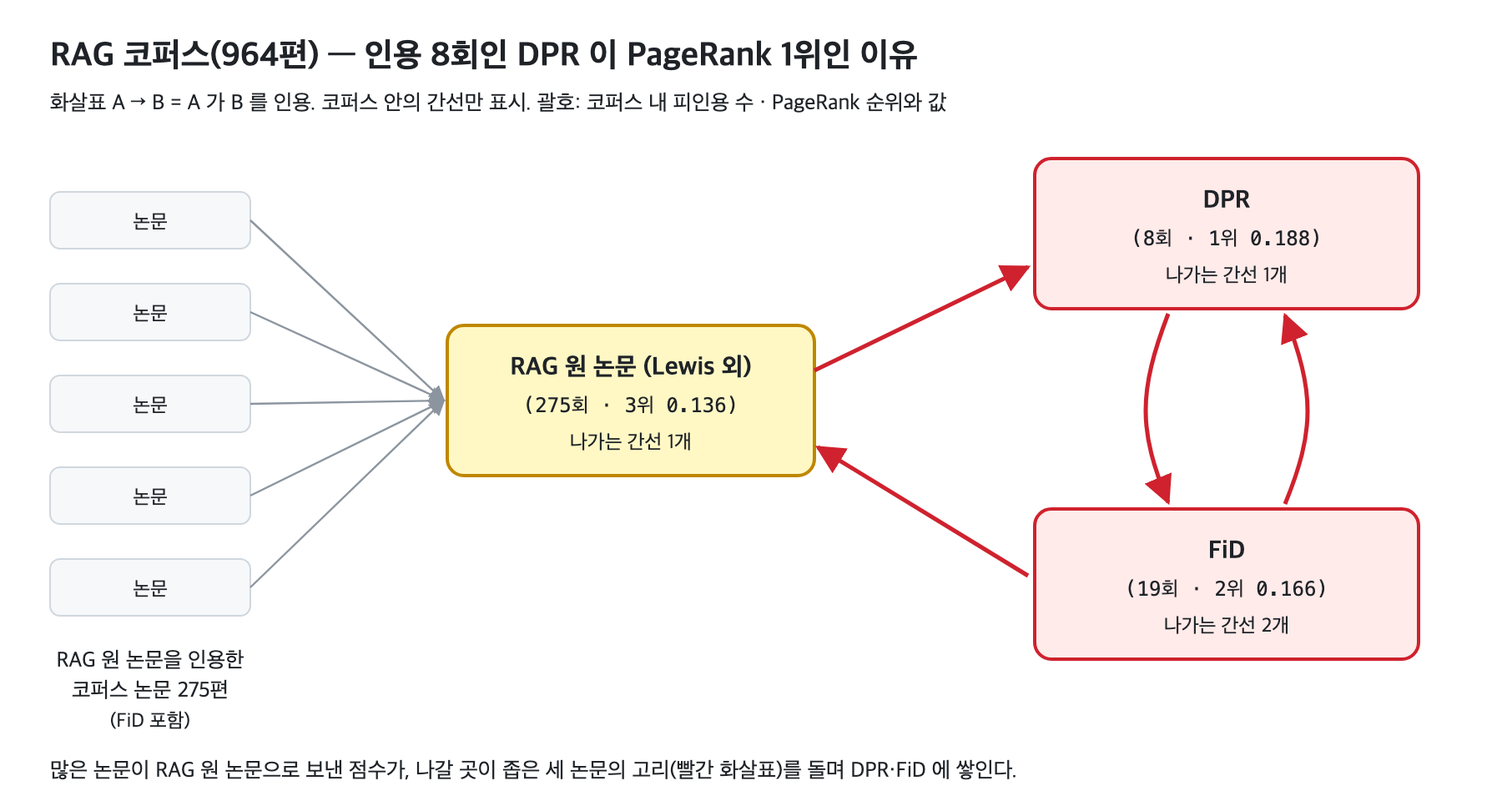
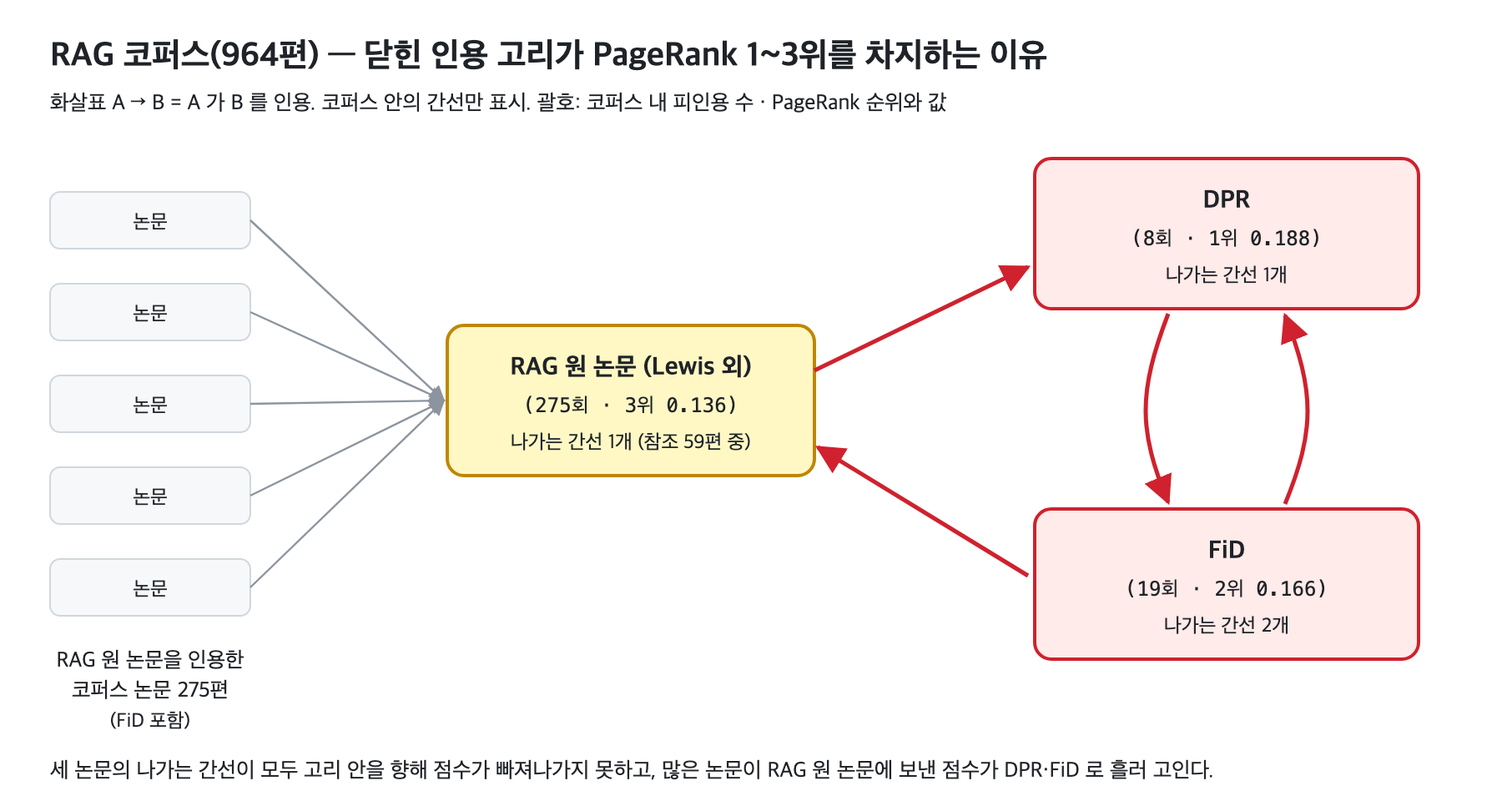
docs: 결과 해석 바로잡기 — 토픽 자리 포화, verify 기준선, 닫힌 인용 고리, 코퍼스 정의와 한계 보강

Changed region(s): [[0.2489, 0.0312, 0.7156, 0.0938], [0.0311, 0.9375, 0.8089, 0.9688], [0.3422, 0.5312, 0.4978, 0.5625]]

diff --git a/README.md b/README.md
@@ -6,10 +6,26 @@
 "각자는 자주 등장하는데 기대보다 함께 등장하지 않는 개념 쌍"을 찾는 Rust CLI 입니다.
 "함께 연구되지 않았다"를 판정하지는 않습니다. 판단 기준은 아래 `gaps` 설명에 있습니다.
 
+이 접근은 문헌 기반 발견(literature-based discovery)의 Swanson ABC 모델과 가깝습니다.
+ABC 모델은 A–B 와 B–C 는 각각 다뤄졌는데 A–C 는 함께 다뤄지지 않은 조합에서, 매개 개념 B 를 거쳐 A–C 관계의 가설을 세웁니다.
+이 도구는 그중 **A–C 가 기대보다 함께 나오지 않는 후보**만 찾고, 매개 개념 B 는 제안하지 않습니다.
+
 - tokio 기반 순차 수집 (레이트리밋·재시도·페이지 단위 디스크 캐시, 끊겨도 이어받기, 일일 과금 한도 감시)
 - PageRank 직접 구현, 동시출현 기대값 대비 lift 로 공백 후보 점수화, 제목·초록 텍스트로 후보 검증
 - 출력 행 타입에 `#[derive(Report)]` 프로시저 매크로를 붙여 표·JSON·CSV 를 한 번에 지원
 - 멀티스테이지 Docker 이미지 (비루트 실행)
+
+## 핵심 결과
+
+아래 "실제 실행 결과" 에서 두 분야 코퍼스로 확인한 내용입니다.
+
+- **리튬 topics 공백 후보 상위는 토픽 배정 방식의 산물입니다.** 상위 10쌍 중 7쌍에 나오는 `Advanced Battery Technologies Research` 2,421편 중
+  2,272편은 뜻이 거의 같은 배터리 토픽 둘도 함께 달고 있어, 논문당 3개인 토픽 자리가 배터리 토픽으로 찹니다. 연구 공백도, 코퍼스 오염도 아닙니다.
+- **태그 공존 0 은 과장된 신호지만 근거가 없지는 않습니다.** 리튬 concepts 후보 전체에서 태그 lift 와 제목·초록 `text_lift` 의 순위상관은 0.64 이고,
+  태그 공존 0 인 쌍은 텍스트에서도 기대보다 덜 함께 나옵니다(`text_lift` 중앙값 0.63). 반면 `co_mentioned`(텍스트 공존 1편 이상)는 태그 lift 와 무관하게 96% 이상이라 판별력이 없습니다.
+- **RAG 인용 PageRank 1~3위는 닫힌 인용 고리입니다.** RAG 원 논문 → DPR → FiD → {DPR, RAG 원 논문} 세 편의 나가는 간선이 모두 고리 안을 향해 전체 점수의 약 49% 가 모입니다.
+  OpenAlex 메타데이터 문제도 겹칩니다: RAG 원 논문 기록의 제목이 틀렸고, 964편 중 299편(31%)은 참조 목록이 비어 있습니다.
+- **분류 체계 품질은 분야마다 다릅니다.** concepts 는 리튬에서는 텍스트 검증에 쓸 만했지만, RAG 에서는 상위 10개 중 8개가 동음이의어 오분류였습니다.
 
 ## 파이프라인
 
@@ -68,6 +84,8 @@ docker run --rm -v "$PWD/data:/app/data" netsci fetch --query '"lithium metal an
 docker run --rm -v "$PWD/data:/app/data" netsci gaps --data data/li-anode --top 20
 ```
 
+API 키를 쓰려면 `docker run` 에 `-e OPENALEX_API_KEY` 를 더해 호스트 환경변수를 컨테이너로 넘깁니다(선택).
+
 위 명령은 macOS·Windows 의 Docker Desktop 기준입니다. 컨테이너는 비루트(uid 10001)로 실행되는데,
 **Linux** 에서는 바인드 마운트한 `data/` 가 호스트 사용자(또는 없을 때 자동 생성되면 root) 소유라
 그대로 실행하면 `data/li-anode/raw: 입출력 실패 … Permission denied` 로 실패합니다.
@@ -90,7 +108,12 @@ docker run --rm --user "$(id -u):$(id -g)" -v "$PWD/data:/app/data" netsci gaps 
 
 **검색어는 따옴표로 묶었습니다.** OpenAlex 전문 검색은 따옴표가 없으면 단어가 흩어져 나오는 논문도 포함합니다.
 같은 조건에서 `lithium metal anode` 는 26,685편, `"lithium metal anode"` 는 4,438편이었고,
-따옴표 없는 코퍼스에는 광촉매·가스 센서·아연 전지 논문이 섞여 `gaps` 상위를 다른 분야 조합이 채웠습니다.
+따옴표 없는 코퍼스에는 `Advanced Photocatalysis Techniques`(광촉매) 토픽 논문 1,296편, `Gas Sensing Nanomaterials and Sensors`(가스 센서) 488편이 들어 있었습니다.
+
+**코퍼스 정의 — 검색은 제목·초록이 아니라 전문(full text)을 봅니다.** 캐시한 응답의 `meta.x_query` 에도 질의가
+`full text has (stemmed "lithium metal anode")` 로 기록돼 있습니다. 그래서 제목·초록에 검색 구가 그대로 나오는 논문은 일부입니다:
+리튬 4,438편 중 862편(`lithium metal anode` 단어 경계 일치, 복수형 `anodes` 까지 치면 1,547편), RAG 964편 중 252편(`retrieval-augmented generation`, 하이픈·공백 표기 모두).
+아래 RAG PageRank 1·2위인 DPR·FiD 도 제목에 이 구가 없습니다. `verify` 는 제목·초록만 읽으므로, 검색으로 코퍼스에 들어온 모집단과 텍스트 검증이 보는 범위가 다릅니다.
 
 ### 분야 1 (자연과학): `"lithium metal anode"` — 4,438편
 
@@ -130,8 +153,12 @@ rank  id           title                                                        
 10    W2907588123  High electronic conductivity as the origin of lithium dendr…  2019  0.005883  188                  1714
 ```
 
-2018년 논문이 상위를 차지합니다. 기간을 자른 코퍼스에서는 먼저 나온 논문이 나중 논문에게 인용될 기회가 많아
-PageRank 가 오래된 쪽으로 기웁니다. 위 표에서 `in_corpus_citations` 가 가장 많은 논문(4위, 455회)이 1위가 아닌 이유는
+2018년 논문이 상위를 차지합니다. 코퍼스에서 2018년 논문은 362편(8.2%)인데 PageRank 상위 100편 중 73편이 2018년입니다.
+출판 연도 앞쪽을 자른 코퍼스(left truncation)에서 두 효과가 겹칩니다.
+먼저 나온 논문은 나중 논문에게 인용될 기회가 많습니다(내부 피인용 57회 이상인 98편 중 48편이 2018년).
+그리고 첫해 논문은 대부분 2018년 이전 논문을 인용해 코퍼스 안으로 나가는 간선이 거의 없습니다. 2018년 논문 362편 중 226편은
+나가는 내부 간선이 0 인 dangling 노드라(작품당 평균 0.83개, 2024년은 11.34개), 전체 인용망이었다면 더 앞선 논문으로 흘러갔을 점수가 2018년 논문에서 멈춥니다.
+위 표에서 `in_corpus_citations` 가 가장 많은 논문(4위, 455회)이 1위가 아닌 이유는
 PageRank 가 "많이 인용된 논문에게 인용된 정도"를 보기 때문입니다.
 
 #### `concepts --top 10` (topics)
@@ -169,9 +196,13 @@ rank  concept_a                                    concept_b                    
 10    Advanced Battery Technologies Research       Chemical Synthesis and Characterization               2421     33       0         18.00     0.000
 ```
 
-따옴표로 코퍼스를 좁혀도 **상위 10쌍 중 9쌍이 "배터리 핵심 토픽 × 다른 토픽"** 입니다. 다른 분야 토픽의 논문 수는 크게 줄었지만(따옴표 없을 때 광촉매 1,296편 → 39편) 구조는 같습니다.
-토픽은 논문당 최대 3개이고(4,438편 중 4,413편이 정확히 3개), 주변 분야 논문은 세 자리를 자기 분야 토픽으로 채우므로 배터리 핵심 토픽과 함께 붙을 자리가 없습니다.
-**topics 기준 공백 후보는 연구 공백보다 코퍼스 구성을 보여 줍니다.**
+따옴표로 코퍼스를 좁혀도 **상위 10쌍 중 9쌍이 "배터리 토픽 × 다른 토픽"** 이고(광촉매 토픽은 따옴표 없을 때 1,296편 → 39편), 그중 7쌍이 `Advanced Battery Technologies Research`(`T10663`)를 포함합니다.
+원인은 뜻이 거의 같은 배터리 토픽들이 논문당 최대 3개(4,438편 중 4,413편이 정확히 3개)인 토픽 자리를 함께 차지하는 데 있습니다(score ≥ 0.4 기준):
+- `T10663` 이 붙은 2,421편 중 2,360편에 `Advancements in Battery Materials`(`T10018`), 2,307편에 `Advanced Battery Materials and Technologies`(`T10281`)가 함께 붙고, 2,272편은 둘 다 붙어 세 자리가 모두 배터리 토픽입니다.
+- 1위 상대인 `MXene and MAX Phase Materials` 140편은 `T10018` 과 91편, `T10281` 과 73편 함께 붙지만 `T10663` 과는 0편입니다.
+  MXene 논문에 배터리 토픽이 붙지 않는 것이 아니라, 배터리 토픽이 이미 한두 자리를 차지해 비슷한 세 번째 배터리 토픽이 들어갈 자리가 없는 것입니다.
+
+**topics 기준 공존 0 은 연구 공백도 코퍼스 오염도 아니고, 비슷한 토픽이 자리를 나눠 갖는 토픽 배정 방식의 산물입니다.**
 
 `expected` 는 두 레이블이 독립이라고 가정했을 때의 기대 동시출현 수(`works_a × works_b / N`)이고,
 `lift = observed / expected` 가 낮을수록 "기대보다 덜 함께 나온" 쌍입니다.
@@ -218,11 +249,31 @@ rank  concept_a                       concept_b             expected  tag_observ
 ```
 
 - 태그 기준으로는 20쌍 모두 공존 0 이지만, 텍스트 기준으로는 **`co_mentioned` 13쌍 · `unverifiable` 7쌍 · `absent_in_text` 0쌍**입니다.
-  태그 공존 0 을 "공백" 으로 읽으면 안 된다는 것을 모든 후보에 대해 수치로 보여 줍니다.
+  다만 아래 기준선에서 보듯 `co_mentioned` 는 태그 공존이 많은 쌍에서도 거의 항상 나오므로, 이 13쌍만으로 태그 공백이 틀렸다고 할 수는 없습니다.
 - 19위 `Solid-state × Stripping (fiber)` 는 태그로는 한 번도 함께 붙지 않았지만 초록에서는 90편이 함께 언급합니다(`text_lift` 0.817).
   `Stripping (fiber)` 는 리튬 도금·박리(plating/stripping)의 오분류이고, 괄호 한정어를 떼면 본래 뜻의 `stripping` 으로 검색됩니다.
 - `unverifiable` 7쌍 중 1·10위는 `Faraday efficiency` 입니다. 이름 그대로는 초록에 1편만 나옵니다. 배터리 논문은 같은 지표를 주로
   Coulombic efficiency 라고 써서, `--alias "Faraday efficiency=Coulombic efficiency"` 로 표현을 더해야 검증할 수 있습니다.
+
+**기준선 — 태그 공존이 있는 쌍과 비교**
+
+위 20쌍만으로는 비교 대상이 없어, `expected ≥ 3` 인 후보 쌍 전체(태그 공존이 있는 쌍 포함, 3,886쌍)를 같은 방식으로 검증했습니다:
+```
+netsci verify --taxonomy concepts --top 100000 --format csv --data data/li-anode-phrase
+```
+태그 lift = `tag_observed / expected`. `co_mentioned` 비율과 `text_lift` 는 판정 가능한(`unverifiable` 이 아닌) 쌍 기준입니다.
+
+| 태그 lift | 쌍 | 판정 가능 | `co_mentioned` 비율 | `text_lift` 중앙값 | `text_lift` < 1 비율 |
+|---|---|---|---|---|---|
+| 0 | 321 | 215 | 96.3% | 0.63 | 82.8% |
+| (0, 0.5) | 855 | 636 | 98.6% | 0.79 | 75.6% |
+| [0.5, 1) | 1,154 | 850 | 99.6% | 0.96 | 56.4% |
+| [1, 2) | 1,208 | 843 | 100% | 1.18 | 20.9% |
+| ≥ 2 | 348 | 222 | 100% | 1.86 | 5.0% |
+
+- `co_mentioned` 는 모든 구간에서 96% 이상이라 **그것만으로는 공백 여부를 가르지 못합니다.** 한 분야로 모은 코퍼스에서 흔한 두 표현은 거의 어디선가 함께 나옵니다.
+- 대신 `text_lift` 는 태그 lift 를 따라갑니다(판정 가능한 2,766쌍에서 스피어만 순위상관 0.64). 태그 공존 0 인 쌍은 텍스트에서도 기대보다 덜 함께 나오므로,
+  태그 공백은 실제로 덜 함께 언급되는 경향을 일부 반영합니다. 다만 텍스트 공존이 0 인 쌍(`absent_in_text`)은 태그 공존 0 인 321쌍 중 8쌍뿐이라, "공존 0" 이라는 숫자는 차이를 과장한 신호입니다.
 
 ### 분야 2 (소프트웨어): `"retrieval-augmented generation"` — 964편
 
@@ -243,8 +294,11 @@ works  year_min  year_max  internal_edges  total_references  internal_ratio  top
 964    2019      2024      1505            35534             0.0424          334     964       918
 ```
 
-내부 인용 비율이 4.24% 로 리튬(9.67%)보다 낮습니다. 964편 중 808편(84%)이 2023~2024년에 나와,
-코퍼스 안에서 서로 인용할 시간이 짧았던 것이 한 원인으로 보입니다.
+`concepts` 가 964 로 작품 수와 같은 것은 우연입니다(필터를 거친 고유 concept id 가 964개).
+
+내부 인용 비율이 4.24% 로 리튬(9.67%)보다 낮습니다. 비율이 낮은 원인은 따로 확인하지 않았지만, 그래프가 성긴 데에는 메타데이터도 작용합니다.
+964편 중 299편(31%, 2024년 논문은 633편 중 179편)은 OpenAlex 기록의 `referenced_works` 가 비어 있어 나가는 간선이 하나도 없습니다(리튬은 4,438편 중 13편).
+참조가 빈 작품은 비율의 분자·분모 모두에서 빠지므로, 비율보다는 간선 수 자체를 줄입니다.
 
 #### `citations --top 10`
 ```
@@ -266,12 +320,17 @@ rank  id           title                                                        
 실제 논문은 RAG 라는 이름을 처음 쓴 **"Retrieval-Augmented Generation for Knowledge-Intensive NLP Tasks"** 입니다.
 출력의 `title` 은 OpenAlex 기록을 그대로 옮기므로 순위표만 보고 논문을 판단하면 안 됩니다.
 
-![RAG 코퍼스 인용 순환 — DPR 이 PageRank 1위인 이유](docs/images/rag-pagerank-cycle.svg)
+![RAG 코퍼스 인용 고리 — DPR·FiD·RAG 원 논문이 PageRank 1~3위인 이유](docs/images/rag-pagerank-cycle.svg)
 
-**1위 DPR 은 코퍼스 안에서 8번밖에 인용되지 않았는데 PageRank 1위입니다.** 코퍼스 안의 인용 관계를 따라가 보면
-RAG 원 논문(275회 인용)이 코퍼스 안에서 인용하는 논문은 DPR 하나뿐이고, DPR 은 2위 FiD 하나만, FiD 는 DPR 과 RAG 원 논문만 인용합니다.
-세 논문이 순환을 이루어, 수많은 논문이 RAG 원 논문으로 흘려보낸 점수가 이 고리를 돌며 DPR·FiD 에 쌓입니다.
-감쇠계수(d = 0.85)가 매 단계 15% 를 전체에 나누지만, 나가는 간선이 한두 개뿐인 작은 순환은 점수를 오래 붙잡습니다.
+**1~3위 세 논문은 코퍼스 안에서 닫힌 인용 고리를 이룹니다.** RAG 원 논문은 DPR 을, DPR 은 FiD 를, FiD 는 DPR 과 RAG 원 논문을 인용하고,
+세 논문의 코퍼스 내 나가는 간선 4개가 모두 고리 안을 향합니다. 고리에 들어온 점수는 감쇠(d = 0.85)로 매 단계 15% 가 전체에 흩어지는 것 말고는
+빠져나갈 길이 없어, 세 논문의 PageRank 합이 0.187659 + 0.165572 + 0.136340 ≈ 0.490, 전체의 약 49% 입니다.
+
+점수가 들어오는 입구는 RAG 원 논문입니다. 코퍼스 논문 275편이 이 논문을 인용하는데, 이 논문의 참조 59편 중 코퍼스 안에 있는 것은 DPR 하나뿐입니다.
+PageRank 는 나가는 점수를 **코퍼스 안 간선 수**로만 나누므로 코퍼스 밖 참조 58편은 무시되고, RAG 원 논문이 넘기는 점수가 전부 DPR 로 갑니다.
+
+DPR 의 코퍼스 내 피인용이 8회뿐인 것을 영향력이 작다는 뜻으로 읽으면 안 됩니다. DPR 은 널리 인용되는 논문인데 이 OpenAlex 기록의
+`cited_by_count` 자체가 142 라, 인용 연결이 이 기록에 제대로 모이지 않은 것으로 보입니다(OpenAlex 연결·수집 범위 문제).
 
 #### `concepts --top 10` (topics)
 ```
@@ -344,22 +403,30 @@ rank  concept                         level  works  strength  top_neighbor
 
 - **인용 그래프가 성깁니다.** 수집한 논문끼리의 인용만 간선이 되므로, 리튬 금속 음극 코퍼스에서 참조 365,042건 중
   코퍼스 안을 가리키는 것은 35,299건(**9.67%**), RAG 코퍼스는 **4.24%** 뿐입니다. PageRank 는 이 부분 그래프 안에서의 순위이고,
-  RAG 코퍼스의 DPR 처럼 나가는 간선이 적은 작은 순환이 점수를 붙잡아 인용 수와 동떨어진 순위가 나올 수 있습니다.
-- **코퍼스 경계가 결과를 좌우합니다.** 검색어를 따옴표로 묶지 않으면 리튬 코퍼스가 26,685편으로 커지며 다른 분야 논문이 섞였습니다.
+  RAG 코퍼스처럼 나가는 간선이 모두 안쪽을 향하는 닫힌 고리가 점수를 붙잡아 인용 수와 동떨어진 순위가 나올 수 있습니다.
+- **PageRank 는 코퍼스 안 나가는 간선 수로만 점수를 나눕니다.** 참조 대부분이 코퍼스 밖인 논문은 받은 점수를 안쪽 몇 안 되는 논문에 모두 넘깁니다
+  (RAG 원 논문은 참조 59편 중 코퍼스 안이 DPR 하나라 넘기는 점수 전부가 DPR 로 갑니다). 출판 연도 앞쪽을 자른 탓에 첫해 논문은 나가는 간선이 거의 없어 상위에 몰립니다.
+- **수집 조건 `cited_by_count > 20` 은 생존 편향을 만듭니다.** 적게 인용된 초기 논문, 특히 다른 분야에서 먼저 시도한 논문이 빠지고,
+  인용이 쌓일 시간이 짧은 최근 연도 논문은 덜 들어옵니다.
+- **코퍼스 경계가 결과를 좌우합니다.** 검색어를 따옴표로 묶지 않으면 리튬 코퍼스가 26,685편으로 커지며 광촉매·가스 센서 토픽 논문이 섞였습니다.
+  OpenAlex 검색은 전문을 보므로 제목·초록에 검색 구가 나오는 논문은 리튬 862편, RAG 252편뿐이고, 제목·초록만 읽는 `verify` 와 모집단이 다릅니다.
   수집을 늘린다고 그래프가 촘촘해지지도 않았습니다(따옴표 없는 코퍼스의 내부 인용 비율은 16,200편 시점 11.63% → 전량 8.22%).
 - **OpenAlex concepts 분류에는 동음이의어 오분류가 섞여 있습니다.** 그래프 명령(`concepts`·`gaps`)의 기본 분류를 topics 로 둔 이유입니다.
   리튬 코퍼스에서 필터(level ≥ 2, score ≥ 0.4)를 거친 뒤에도 4,438편 중 2,967편에 `Lithium (medication)`(리튬 약물),
   519편에 `Dendrite (mathematics)` 가 붙어 있고, RAG 코퍼스에서는 `concepts` 상위 10개 중 8개가 오분류입니다. 필터로 줄일 뿐 제거하지 못합니다.
-- **topics 는 오분류가 적지만 한 분야로 모은 코퍼스의 공백 후보로는 약할 수 있습니다.** 토픽은 논문당 최대 3개라,
-  리튬 코퍼스에서는 "핵심 토픽 × 주변 분야 토픽" 쌍이 `gaps` 상위를 채웠습니다. RAG 코퍼스에서는 해석할 수 있는 조합이 나왔습니다.
-- **OpenAlex 메타데이터 자체가 틀린 경우가 있습니다.** RAG 코퍼스의 PageRank 3위 기록은 DOI·저자로 보면 RAG 원 논문
-  (Lewis 외, arXiv 2005.11401)인데 제목이 전혀 다른 문자열로 들어가 있습니다. 이전에 받은 large language model 코퍼스에서도
-  Chain-of-Thought 논문(arXiv 2201.11903)이 같은 식으로 틀려 있었습니다. 둘 다 arXiv DOI(`10.48550`) 기록입니다.
+- **topics 는 오분류가 적지만 `expected` 의 독립 가정을 구조적으로 어깁니다.** 토픽은 논문당 최대 3개이고 뜻이 거의 같은 토픽이 여러 개라,
+  비슷한 토픽끼리 자리를 나눠 가지면 독립 가정의 기대값이 과대 추정되고 공존 0 이 쉽게 생깁니다(리튬 코퍼스의 `gaps` 상위). RAG 코퍼스에서는 해석할 수 있는 조합이 나왔습니다.
+- **독립 가정은 concepts 에서도 맞지 않습니다.** 공존 수가 기대값 λ 의 포아송 분포를 따른다면 우연히 공존 0 인 쌍의 기대 개수는 후보 쌍의 e^(−λ) 합인데,
+  리튬 concepts 후보 3,886쌍에서 이 값은 약 29.5쌍이고 실제 공존 0 은 321쌍입니다(topics 후보 150쌍에서는 약 0.7쌍 대 38쌍). 그래서 `lift` 는 순위 기준으로만 씁니다.
+- **OpenAlex 메타데이터 자체가 틀리거나 빠진 경우가 있습니다.** RAG 코퍼스의 PageRank 3위 기록은 DOI·저자로 보면 RAG 원 논문
+  (Lewis 외, arXiv 2005.11401)인데 제목이 전혀 다른 문자열로 들어가 있습니다. RAG 코퍼스 964편 중 299편(31%)은 `referenced_works` 가 비어 있고,
+  널리 인용되는 DPR 의 기록은 `cited_by_count` 가 142 입니다.
 - **전송 오류는 재시도하지 않습니다.** 429·5xx 는 재시도하지만, 연결 끊김·응답 본문 읽기 타임아웃은 바로 에러로 끝납니다
-  (위 리튬 수집에서 실제로 발생). 받은 페이지는 캐시에 남으므로 같은 명령을 다시 실행하면 이어받습니다.
-- **`lift` 가 낮다고 연구 가치가 있다는 뜻은 아닙니다 — 단지 후보일 뿐입니다.** 위 리튬 `verify` 에서 태그 공존 0 인 20쌍 중 13쌍이
-  제목·초록에는 함께 나왔습니다. 태그 기준 공존 0 은 "함께 다뤄지지 않았다" 가 아니라
-  "함께 태깅되지 않았다" 일 뿐이라, `verify` 로 제목·초록과 대조하고 `evidence` 로 원문 표본을 읽어 확인해야 합니다.
+  (위 리튬 수집에서 실제로 발생). 받은 페이지는 캐시에 남아 같은 명령을 다시 실행하면 이어받아 복구되므로, 재시도는 넣지 않고 보류했습니다.
+- **`lift` 가 낮다고 연구 가치가 있다는 뜻은 아닙니다 — 단지 후보일 뿐입니다.** 태그 기준 공존 0 은 "함께 다뤄지지 않았다" 가 아니라
+  "함께 태깅되지 않았다" 는 뜻입니다. 위 기준선에서 태그 공존 0 인 쌍은 텍스트에서도 덜 함께 나오는 경향이 있지만(`text_lift` 중앙값 0.63) 0 이라는 숫자만큼 극단적이지는 않으므로,
+  `verify` 로 제목·초록과 대조하고 `evidence` 로 원문 표본을 읽어 확인해야 합니다.
+- **시간 검증을 하지 않았습니다.** 문헌 기반 발견에서는 과거 시점의 후보가 이후 실제로 함께 연구됐는지로 방법을 평가하지만, 여기서 나온 후보가 나중에 공존하게 됐는지는 확인하지 않았습니다.
 - **`verify`·`evidence` 는 기본 분류가 concepts 입니다.** 텍스트 검증은 레이블 이름을 제목·초록에서 찾는데, 토픽 이름은
   `Advanced Battery Materials and Technologies` 같은 구문이라 본문에 그대로 나오는 일이 드물어 topics 로는 대부분 `unverifiable` 이 됩니다.
   `--taxonomy topics` 를 직접 주면 경고를 내며, 이때는 `--alias` 로 표현을 더해야 합니다. 반대로 concepts 의 오분류 이름도
@@ -367,6 +434,10 @@ rank  concept                         level  works  strength  top_neighbor
   일반 단어가 되면 과잉 일치합니다(따옴표 없는 리튬 코퍼스에서 `Electrolyte × Production (economics)` 가 229편 일치).
 - **`co_mentioned` 는 "제목·초록에 함께 나온 논문이 1편 이상" 이라는 뜻일 뿐입니다.** `text_expected` 가 40 이어도 1편이면 같은 판정이므로
   `text_lift`(`text_observed / text_expected`)와 함께 읽어야 합니다. 문자열 공존은 비교·부정 문장("unlike …")도 셉니다.
+- **`unverifiable` 은 텍스트 공존이 0 이라는 뜻이 아닙니다.** `text_expected < 3` 이면 `text_observed` 가 있어도 판정하지 않습니다
+  (RAG `verify --top 20` 2위 `Health care × Language model` 은 `text_expected` 2.50 에 공존 3편, 12위 `Context (archaeology) × Health care` 는 2.67 에 2편).
+- **표현은 단어 경계로 정확히 일치할 때만 셉니다.** 복수형·어형 변화는 다른 표현이라, RAG 코퍼스(초록 있는 918편)에서 `Language model` 은
+  `language model` 로 164편이지만 `language models` 까지 치면 649편입니다. `--alias "Language model=language models"` 처럼 표현을 더해야 합니다.
 - **짧은 검색어는 과잉 일치할 수 있습니다.** 정규화 뒤 1~2글자인 표현(약어 별칭 등)은 단어 경계로만 비교하므로 뜻이 다른 같은 철자도 일치로 셉니다.
 - **유니코드 정규화(NFC)를 하지 않습니다.** 조합형과 완성형으로 쓰인 같은 글자(예: `é`)는 서로 다른 문자열로 비교됩니다.
 - **개념 표기 정규화를 하지 않습니다.** 같은 대상을 가리키는 다른 표기나 상·하위 개념을 합치지 않으므로, 한 주제가 여러 개념으로 나뉘어 세어질 수 있습니다.

diff --git a/docs/decisions.md b/docs/decisions.md
@@ -142,7 +142,7 @@
 ## 2026-09-17 공백 개념쌍 텍스트 검증(`verify`)과 초록 수집 추가 — 명세 확장
 - 선택지: 사례 몇 개로 한계만 기술 / LLM 으로 논문별 판정 / 제목·초록 텍스트 공존을 모든 후보에 대해 계산
 - 선택: 제목·초록 텍스트 공존
-- 이유: 공백 후보 상위가 태깅 누락의 부산물이라는 주장을 모든 후보에 대해 재현 가능한 수치로 보인다. 결정적이고 비용이 없으며 테스트할 수 있다. LLM 판정은 API 키·비용이 필요하고 결과가 흔들려 README 수치와 대조하기 어렵다.
+- 이유: 태그 공백이 텍스트에서도 나타나는지 모든 후보에 대해 재현 가능한 수치로 확인한다. 결정적이고 비용이 없으며 테스트할 수 있다. LLM 판정은 API 키·비용이 필요하고 결과가 흔들려 README 수치와 대조하기 어렵다.
 - 한계: 이름 일치는 개념 판정이 아니다. 괄호 한정어를 떼므로 `Lithium (medication)` 은 `lithium` 으로 검색돼 금속 리튬 언급까지 센다. 약어는 `--alias` 로만 잡는다.
 
 ## 2026-09-17 캐시 스키마 버전(`query.json` 의 `schema`)
@@ -154,6 +154,7 @@
 - 선택지: 2,000편 유지 / 리튬 금속 음극 조건 전량(26,604편) / 두 분야 모두 2만 편 이상
 - 선택: 리튬 금속 음극 전량, large language model 은 2,000편 유지
 - 이유: 2,000편은 조건에 맞는 전체의 7.5% 라 인용 그래프가 성긴 원인 일부가 수집량이었다. 전량은 134회 호출($0.134)로 키 없는 하루 한도($0.1)를 넘지만, 한도 도달 시 멈추고 다음 날 캐시에서 이어받는 기존 동작으로 해결된다. LLM 분야는 조건에 맞는 논문이 326,673편이라 키 없이 전량은 비현실적이고, 메타데이터 오류 사례를 보이는 데는 2,000편으로 충분하다.
+- (이후 아래 "두 분야를 따옴표 검색어로 다시 수집" 항목으로 대체. 아래 항목의 327,179편은 같은 날 나중에 받은 캐시의 `meta.count` 로, 조회 시점이 달라 수가 다르다)
 
 ## 2026-09-17 verify 에 텍스트 기대값과 판정 열 추가
 - 선택지: 텍스트 공존 수만 출력 / 텍스트 기대값·판정까지 출력
@@ -222,16 +223,29 @@
   - **"성긴 원인 일부가 수집량" 이라는 위 가정은 맞지 않았다.** 내부 인용 비율이 16,200편 시점 0.1163 → 전량 0.0822 로 낮아졌다. 검색 관련도가 낮은 뒤쪽 논문이 코퍼스 밖을 더 많이 인용하는 것으로 보인다(미확인 추정)
   - **topics 기준 `gaps` 상위 20쌍은 모두 "배터리 핵심 토픽 × 다른 분야 토픽"** 이다. 토픽이 논문당 최대 3개(26,379편이 정확히 3개)라 전문 검색으로 들어온 다른 분야 논문과는 구조적으로 공존할 수 없다. 기본 분류는 그대로 두고 README 한계에 기록했다
   - concepts 기준 후보 20쌍을 `verify` 하면 co_mentioned 12 · absent_in_text 4 · unverifiable 4. 괄호 한정어 제거가 `Production (economics)` → `production` 같은 일반 단어 과잉 일치를 만든다
+- (이후 아래 "두 분야를 따옴표 검색어로 다시 수집" 항목으로 대체. topics `gaps` 원인 설명은 "2026-09-17 README 결과 해석 바로잡기" 항목에서 다시 고쳤다)
 
 ## 2026-09-17 두 분야를 따옴표 검색어로 다시 수집 — 리튬 금속 음극 + RAG
 - 선택지: 리튬(따옴표 없음 26,685편) + large language model 2,000편 유지 / 두 분야 모두 따옴표 검색어로 전량 / 소프트웨어 분야를 `"large language model" agent`(4,130편)로
 - 선택: `"lithium metal anode"`(4,438편) + `"retrieval-augmented generation"`(964편), 둘 다 조건 전량. 위 "전량 수집 결과로 README 교체" 항목의 결과를 대체한다
 - 이유:
-  - 따옴표 없는 전문 검색은 단어가 흩어져 나오는 논문까지 포함해 코퍼스에 다른 분야가 섞였다(리튬 26,685 → 4,438, RAG 14,166 → 964)
+  - 따옴표 없는 전문 검색은 단어가 흩어져 나오는 논문까지 포함해 코퍼스에 다른 분야가 섞였다(리튬 26,685 → 4,438, RAG 14,166 → 964). 따옴표 없는 리튬 코퍼스에는 광촉매 토픽 1,296편·가스 센서 토픽 488편이 있었다. 이 혼입이 `gaps` 상위를 만든 원인이라는 판단은 확인하지 않았다
   - 소프트웨어 분야는 작성자가 결과를 직접 판단할 수 있어야 한다. RAG 는 실무에서 하이브리드 검색을 만들어 본 분야라 공백 후보가 말이 되는지 스스로 볼 수 있다. LLM 일반은 범위가 넓어(327,179편) 전량이 어렵고, agent 검색어는 LLM 서베이가 섞였다
 - 관찰:
-  - 따옴표로 좁혀도 리튬 topics `gaps` 상위 10쌍 중 9쌍은 "배터리 핵심 토픽 × 주변 토픽" 이다. 주변 토픽 편수만 줄었다(광촉매 1,296 → 39). 논문당 토픽 3개 제한이 원인이라 코퍼스를 좁히는 것만으로는 풀리지 않는다
+  - 따옴표로 좁혀도 리튬 topics `gaps` 상위 10쌍 중 9쌍은 "배터리 핵심 토픽 × 주변 토픽" 이다. 주변 토픽 편수만 줄었다(광촉매 1,296 → 39). 논문당 토픽 3개 제한과 뜻이 거의 같은 배터리 토픽들이 자리를 나눠 갖는 것이 원인이라 코퍼스를 좁히는 것만으로는 풀리지 않는다 (원인 설명은 아래 "README 결과 해석 바로잡기" 에서 수정)
   - RAG topics `gaps` 는 해석할 수 있는 조합(의료·교육 AI × 멀티모달 ML)이 나왔고, RAG concepts 는 상위 10개 중 8개가 오분류라 verify 가 의미 있는 판정을 못 냈다. 분류 체계 품질이 분야마다 다르다 → 기본값은 그대로 두고 README 에 분야별 관찰로 기록
-  - RAG PageRank 1위 DPR(내부 인용 8회)은 RAG 원 논문 → DPR → FiD → {DPR, RAG 원 논문} 순환 때문이다. 세 논문의 코퍼스 내 나가는 간선이 1·1·2개뿐이라 점수가 고리에 쌓인다
+  - RAG PageRank 1~3위는 RAG 원 논문 → DPR → FiD → {DPR, RAG 원 논문} 닫힌 고리다. 세 논문의 코퍼스 내 나가는 간선 4개가 모두 고리 안을 향해 점수가 빠져나가지 못하고(세 논문 합 약 0.49), 275편이 인용하는 RAG 원 논문의 코퍼스 내 참조가 DPR 하나뿐이라 넘기는 점수가 전부 DPR 로 간다
   - RAG 원 논문(arXiv 2005.11401) 기록의 제목이 틀려 있다. 앞서 본 Chain-of-Thought 기록과 같은 arXiv DOI(`10.48550`) 계열이다
-  - 리튬 수집 첫 실행이 응답 본문 읽기 타임아웃으로 끝났다. 전송 오류 미재시도(3차 리뷰에서 보류한 항목)가 실제로 발생했고, 재실행으로 캐시에서 이어받았다. 빈도가 낮고 재실행으로 복구되므로 README 한계에 기록만 한다
+  - 리튬 수집 첫 실행이 응답 본문 읽기 타임아웃으로 끝났다. 전송 오류 미재시도(3차 리뷰에서 보류한 항목)가 실제로 발생했고, 재실행으로 캐시에서 이어받았다. 재실행으로 복구되므로 보류하고 README 한계에 기록만 한다
+
+## 2026-09-17 README 결과 해석 바로잡기
+- 선택지: 기존 해석 유지 / 원자료(`works.jsonl`)와 도구 출력으로 다시 계산해 틀린 설명을 고친다
+- 선택: 다시 계산해 고친다. 숫자는 모두 도구 출력이거나 `works.jsonl` 에서 다시 센 값만 쓴다
+- 틀렸던 것과 바로잡은 내용:
+  - **리튬 topics 공존 0 의 원인**: "주변 분야 논문이 세 자리를 자기 분야 토픽으로 채운다" 가 아니었다. `Advanced Battery Technologies Research` 2,421편 중 2,272편이 뜻이 거의 같은 배터리 토픽 둘을 함께 달아 세 자리가 배터리 토픽으로 찬다. MXene 토픽 140편은 다른 배터리 토픽과는 91·73편 공존하지만 이 토픽과는 0편이다. 토픽 배정 방식의 산물이다
+  - **verify 해석**: 태그 공존이 있는 쌍까지 포함한 전체 후보(3,886쌍) 기준선을 만들자 `co_mentioned` 비율이 태그 lift 구간과 무관하게 96~100% 였다. 판별력은 `text_lift` 에 있고(태그 lift 와 순위상관 0.64, 태그 공존 0 인 쌍의 중앙값 0.63), 태그 공백은 실제로 덜 함께 언급되는 경향을 일부 반영한다. "태그 공존 0 은 공백이 아니다" 는 과한 결론이었다
+  - **RAG PageRank**: "나가는 간선이 적은 순환" 이 아니라 나가는 간선이 모두 안쪽을 향하는 닫힌 고리(합 약 0.49)와, 참조 59편 중 코퍼스 안이 DPR 하나인 RAG 원 논문이 점수를 전부 DPR 로 넘기는 정규화가 원인이다. DPR 의 내부 피인용 8회는 OpenAlex 기록의 `cited_by_count` 가 142 인 연결 문제로 본다
+  - **RAG 내부 인용 비율**: "인용할 시간이 짧았다" 는 확인하지 않은 추정이라 뺐다. 964편 중 299편(31%)이 `referenced_works` 가 비어 있다는 사실만 적었다
+  - **리튬 2018년 편향**: 인용 기회뿐 아니라, 2018년 논문 362편 중 226편이 코퍼스 안으로 나가는 간선이 없는 dangling 노드라는 앞쪽 절단 효과를 더했다
+- 함께 추가: 코퍼스 정의(OpenAlex 검색은 전문 대상, 제목·초록에 검색 구가 있는 논문은 리튬 862편·RAG 252편), 문헌 기반 발견(Swanson ABC 모델)과의 관계, 한계(피인용 필터의 생존 편향, 독립 가정 위반 — 리튬 concepts 후보에서 우연한 공존 0 기대 약 29.5쌍 대 실제 321쌍, 복수형 불일치, `unverifiable` 의 의미, 시간 검증 없음)
+- 코드: `api_key` 가 들어간 요청 URL 이 reqwest 에러 메시지로 새지 않도록 URL 을 떼고, `fetch --limit 0` 을 인자 검사에서 거절한다(기존 `works.jsonl` 을 빈 파일로 덮어썼다)

diff --git a/SPEC.md b/SPEC.md
@@ -1,5 +1,7 @@
 # netsci — 구현 명세
 
+> 초기 명세이며, 이후 변경은 `docs/decisions.md` 에 기록한다.
+
 > OpenAlex 논문 메타데이터로 **인용 네트워크**와 **개념 동시출현 네트워크**를 만들고,
 > "각자는 자주 등장하는데 기대보다 함께 등장하지 않는 개념 쌍"을 찾고, 그 결과를 원자료로 검증하는 Rust CLI.
 
@@ -74,10 +76,13 @@ netsci/
       │  ├─ main.rs              # clap 파싱 → 명령 실행만
       │  ├─ lib.rs
       │  ├─ openalex.rs          # API 클라이언트, 응답 모델
+      │  ├─ fetch.rs             # 페이지 캐시·query.json·works.jsonl 쓰기 (2026-09-16 분리)
+      │  ├─ commands.rs          # 명령별 출력 행 계산 (2026-09-16 분리)
       │  ├─ corpus.rs            # Work 모델, JSONL 입출력
       │  ├─ citation.rs          # 인용 그래프 + PageRank
       │  ├─ concept.rs           # 개념 동시출현 그래프 + 중심성
-      │  └─ gaps.rs              # 공백 개념쌍 탐지
+      │  ├─ gaps.rs              # 공백 개념쌍 탐지
+      │  └─ verify.rs            # 제목·초록 텍스트 검증 (2026-09-17 추가)
       └─ tests/
          ├─ fixtures/works_page.json   # 실제 OpenAlex 응답 (이미 들어 있음)
          └─ *.rs
@@ -150,7 +155,7 @@ x-ratelimit-remaining-usd: 0.099
 ### 4.1 `netsci fetch`
 
 ```
-netsci fetch --query "lithium metal anode" \
+netsci fetch --query '"lithium metal anode"' \
              [--filter "publication_year:2018-2024,cited_by_count:>20"] \
              [--limit 2000] [--data data/li-anode]
 ```
@@ -189,7 +194,7 @@ netsci fetch --query "lithium metal anode" \
 - `--taxonomy topics` 를 직접 주면 토픽 이름이 본문과 거의 일치하지 않는다는 경고를 stderr 에 낸다
 - 결과 쌍의 어느 레이블 이름과도 맞지 않는 `--alias` 는 쓰이지 않았다고 stderr 에 경고한다
 
-> 추가 이유(2026-09-17): 공백 후보 상위가 태깅 누락의 부산물이라는 것을 사례 몇 개가 아니라 모든 후보에 대해 수치로 보이기 위해서다.
+> 추가 이유(2026-09-17): 태그 공백이 텍스트에서도 나타나는지 사례 몇 개가 아니라 모든 후보에 대해 수치로 확인하기 위해서다.
 
 ### 4.7 `netsci evidence --a "개념 A" --b "개념 B" [--limit 30] [--taxonomy concepts] [--alias ...]`
 두 표현이 제목·초록에 함께 나오는 논문 표본. 해당 논문이 `limit` 보다 많으면 번호 순으로 고르게 건너뛰며 뽑는다(결정적).
@@ -319,7 +324,7 @@ impl ::netsci_report::Report for GapRow {
 
 ### 6.4 매크로 테스트
 - `netsci-report` 쪽 단위 테스트: 위 `GapRow` 의 `headers()`/`row()` 결과 검증, `Option` None/Some, 제네릭 구조체
-- `trybuild` compile-fail 3건: 튜플 구조체, 알 수 없는 속성, `skip` + `rename` 동시 사용. `.stderr` 파일 포함
+- `trybuild` compile-fail 6건: 튜플 구조체, 알 수 없는 속성, `skip` + `rename` 동시 사용(명세 3건) + `skip = …` 값, 문자열·정수 필드의 `precision`, 범위 밖 `precision`(2026-09-17 추가). `.stderr` 파일 포함
 
 ---
 
@@ -332,7 +337,7 @@ impl ::netsci_report::Report for GapRow {
 - 사용 예 (README 에 그대로):
   ```
   docker build -t netsci .
-  docker run --rm -v "$PWD/data:/app/data" netsci fetch --query "lithium metal anode" --limit 2000 --data data/li-anode
+  docker run --rm -v "$PWD/data:/app/data" netsci fetch --query '"lithium metal anode"' --limit 2000 --data data/li-anode
   docker run --rm -v "$PWD/data:/app/data" netsci gaps --data data/li-anode --top 20
   ```
 
@@ -390,7 +395,7 @@ impl ::netsci_report::Report for GapRow {
 1. 한 줄 소개 + 동기: *"과학 문헌에서 기대보다 함께 등장하지 않는 개념 조합을 네트워크 구조로 찾고, 그 결과가 진짜인지 원자료로 확인한다"* ("함께 연구되지 않았다" 고 단정하지 않는다)
 2. 파이프라인 그림 (fetch → works.jsonl → citation / concept graph → gaps)
 3. 빠른 시작 (cargo, docker)
-4. **실제 실행 결과** — 한 분야(기본: lithium metal anode, 2018~2024, 피인용 20회 초과) 로 `stats`, `citations`, `gaps` 출력을 붙인다. 숫자는 실제 실행값만
+4. **실제 실행 결과** — 두 분야(자연과학: `"lithium metal anode"`, 소프트웨어: `"retrieval-augmented generation"`, 둘 다 2018~2024, 피인용 20회 초과) 로 `stats`, `citations`, `gaps` 등의 출력을 붙인다. 숫자는 실제 실행값만 (초안의 한 분야에서 2026-09-17 변경)
 5. 설계 결정 요약 (`docs/decisions.md` 링크)
 6. **한계** — 최소한 다음을 쓴다
    - 코퍼스 내부 인용만 그래프에 들어가 성기다 (`stats` 의 내부 비율 수치 인용)
@@ -402,8 +407,8 @@ impl ::netsci_report::Report for GapRow {
 
 ## 11. 완료 정의
 
-- [ ] §9 의 8단계 커밋이 모두 존재
+- [x] §9 의 8단계 커밋이 모두 존재
 - [ ] `cargo fmt --check && cargo clippy --all-targets -- -D warnings && cargo test` 통과
-- [ ] 라이브러리 코드에 `unwrap`/`expect`/`todo!`/`unimplemented!` 없음
+- [x] 라이브러리 코드에 `unwrap`/`expect`/`todo!`/`unimplemented!` 없음
 - [ ] `docker build` 성공, 컨테이너로 `fetch` → `gaps` 가 실제로 동작
 - [ ] README 의 실행 결과가 실제 출력과 일치
